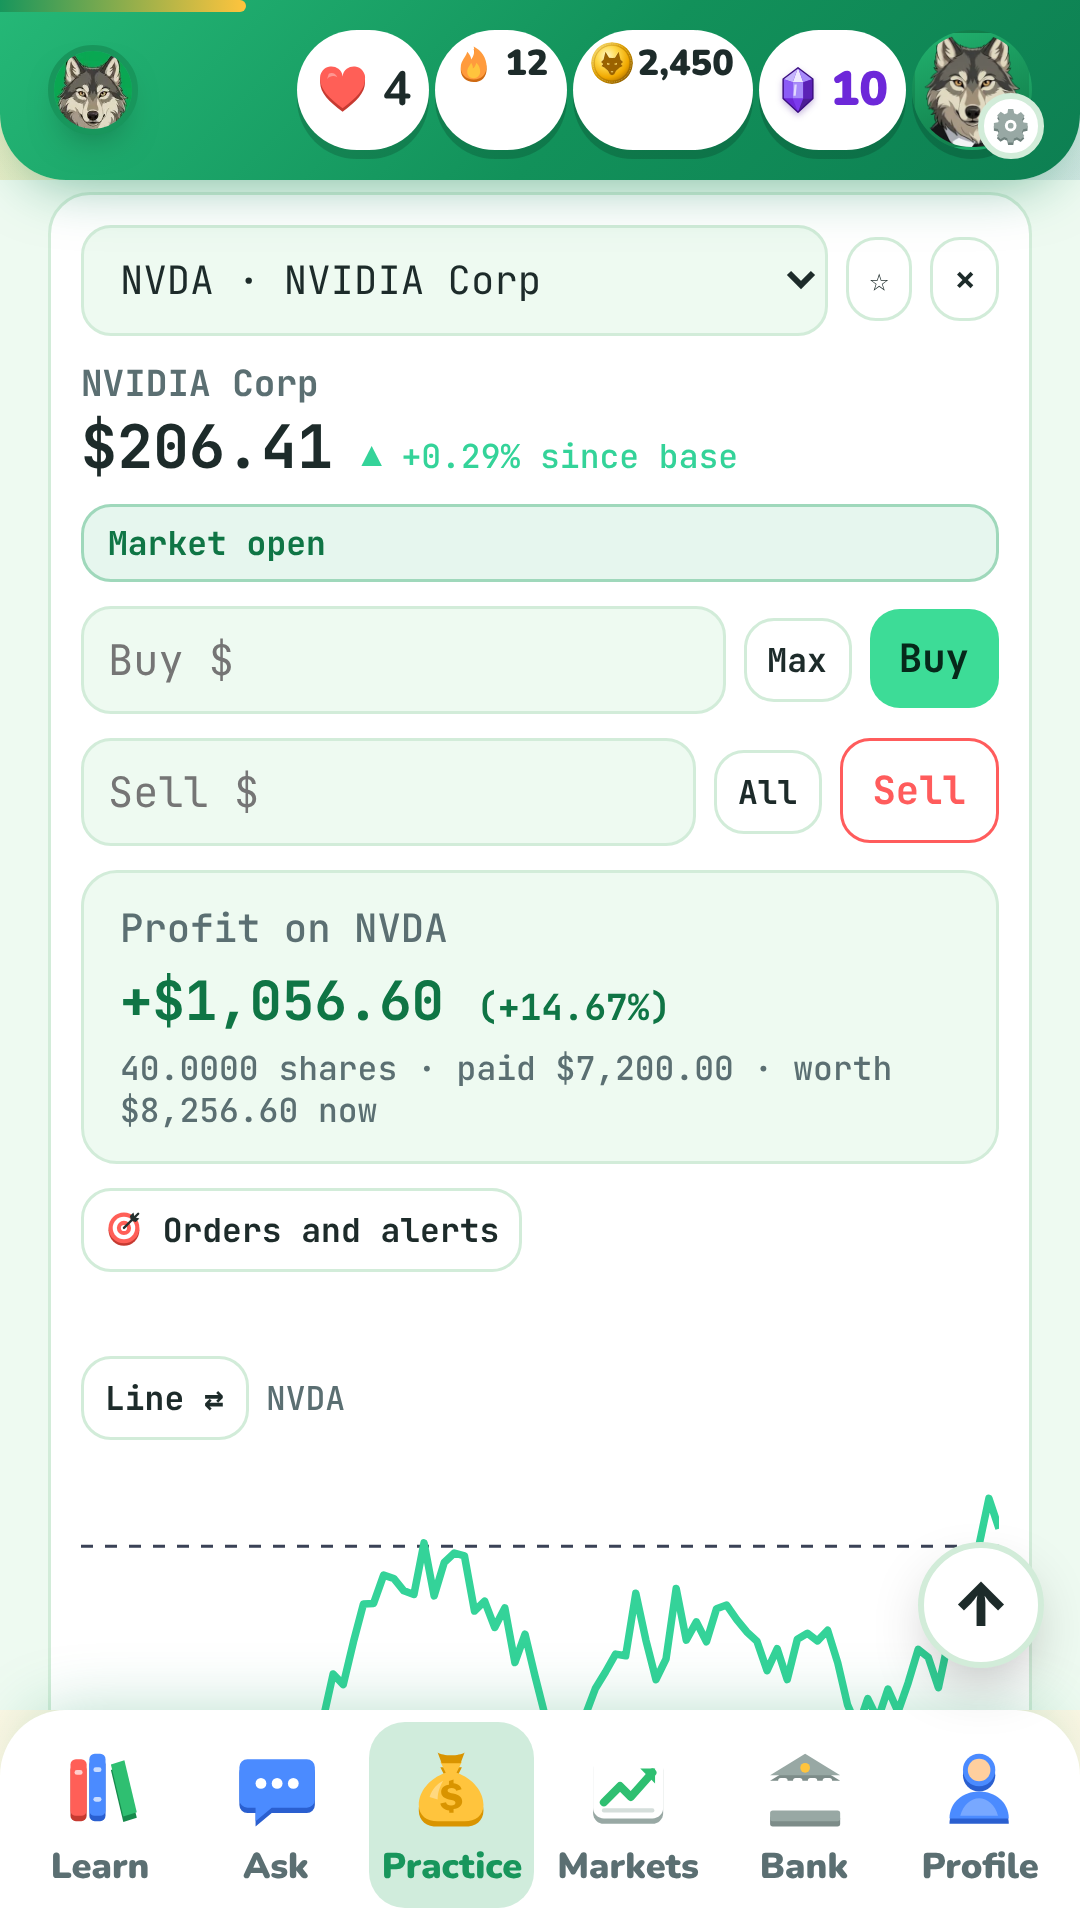
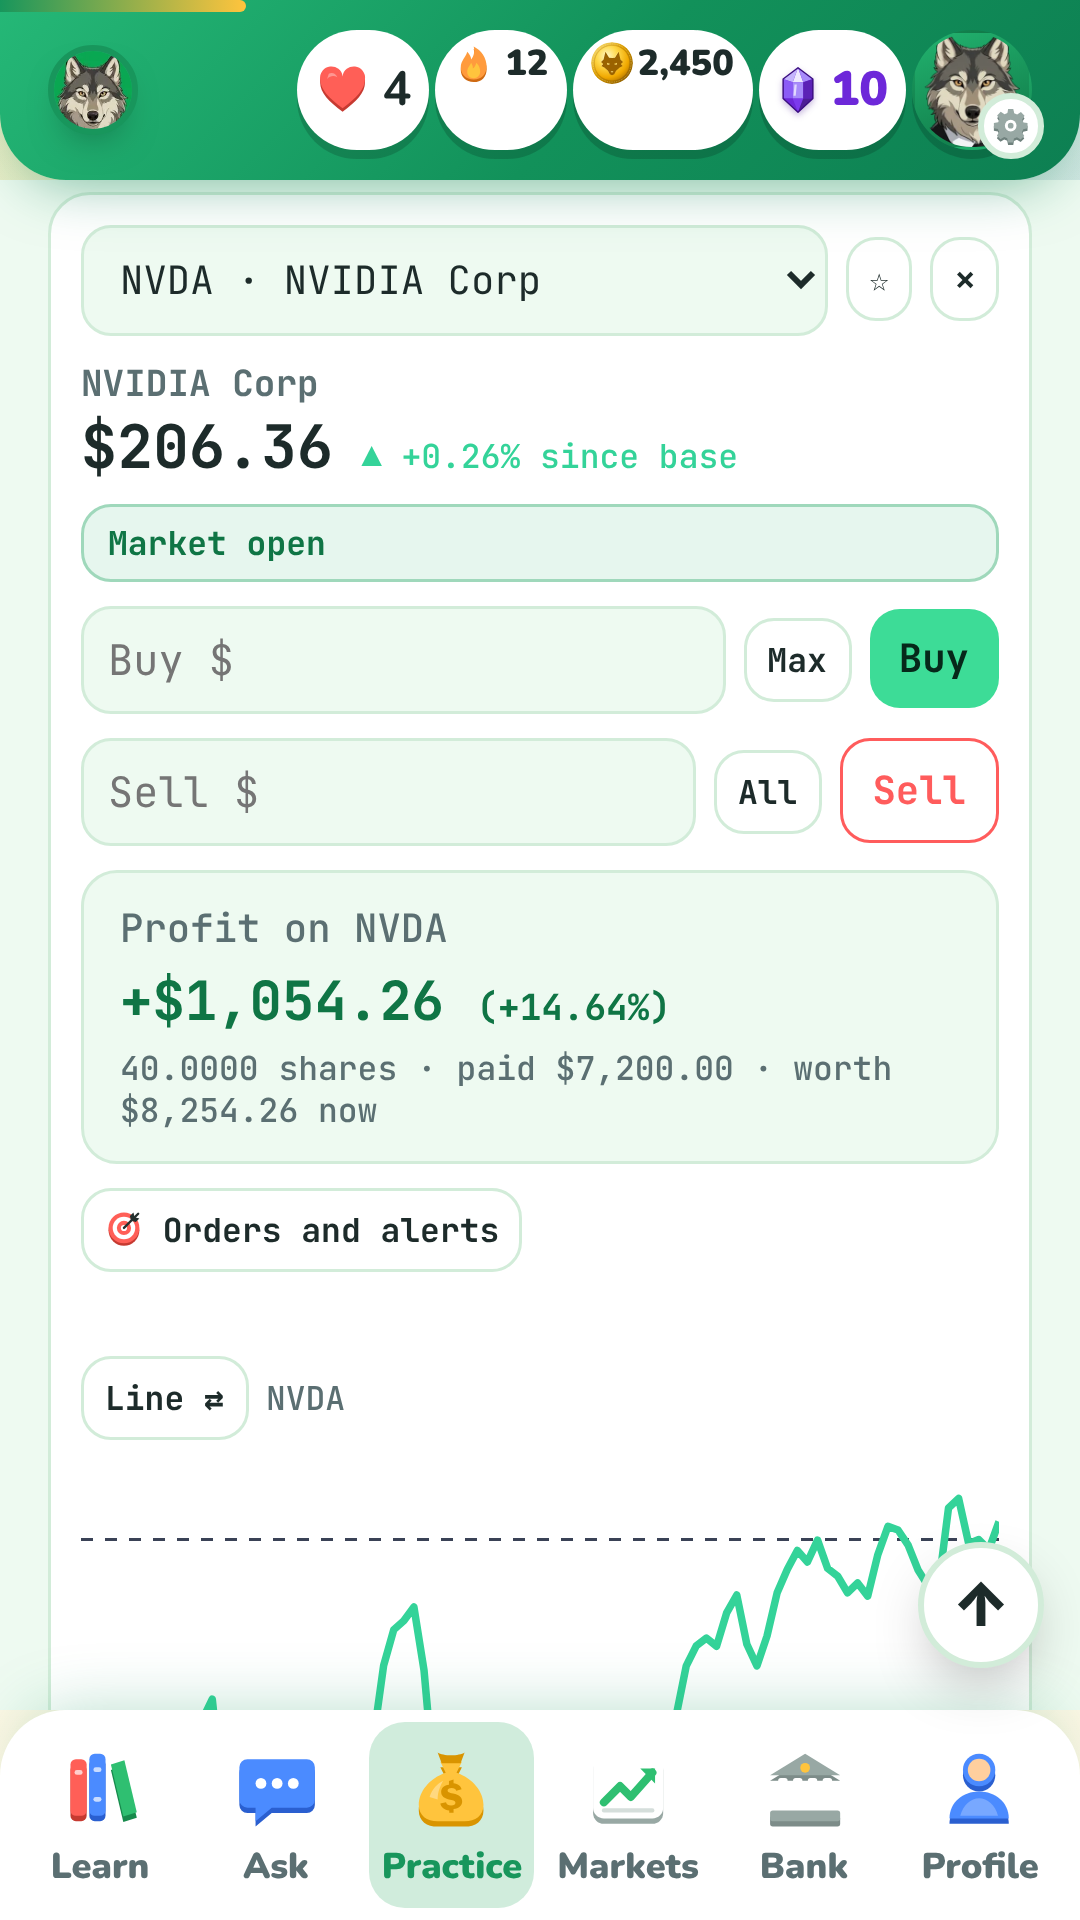
Wally Street 5.11.1: live charts no longer flatten into a straight line

diff --git a/index.html b/index.html
@@ -1695,7 +1695,7 @@ let SWX=null;function pnSwipe(){return;/* charts sit side by side again, so swip
 /* per-chart extras: star, alert, order row, big-move note, chart description */
 function paintPx(n){const P=PN[n],i=P.i,k=MK[i],p=pr[i],b=k[3],ch=p/b-1,E=document.querySelector('.cd[data-n="'+n+'"]');if(!E)return;
  const st=E.querySelector('[data-star]');if(st){const on=(X.w||[]).includes(k[0]);st.textContent=on?'★':'☆';st.setAttribute('aria-pressed',on);st.setAttribute('aria-label',(on?'Remove ':'Add ')+k[0]+(on?' from':' to')+' watchlist')}
- const mv=gi('mv',n);if(mv)mv.textContent=Math.abs(ch)>=.03?(ch>0?'📈 Big move: ':'📉 Big move: ')+pc(ch)+' since base. Prices here are simulated. In real markets, moves this big usually follow news such as results, interest-rate changes or sector news.':'';
+ const mv=gi('mv',n);if(mv)mv.textContent=Math.abs(ch)>=.03?(ch>0?'📈 Big move: ':'📉 Big move: ')+pc(ch)+(liveOn(k[0])?' today. This is the real price change since yesterday\'s close. Moves this big usually follow news such as results, interest-rate changes or sector news.':' since base. Prices here are simulated. In real markets, moves this big usually follow news such as results, interest-rate changes or sector news.'):'';
  const svg=E.querySelector('svg');if(svg)svg.setAttribute('aria-label',`${k[0]} price chart: ${$m(p)} now, ${pc(ch)} since the base price of ${$m(b)}, ${ch>=0?'up':'down'} overall`);
  ['bi','si'].forEach(id=>{const x=gi(id,n);if(x)x.placeholder=(id=='bi'?'Buy ':'Sell ')+curSym()});}
 function pracX(t,g){let x;
@@ -1802,6 +1802,7 @@ function openReport(q){if(!q)return;const txt=String(q[0]).slice(0,300);showDoc(
 /* ---- what's new ---- */
 const WHATSNEW=['A faster start: one-screen Terms and straight into your first lesson','"What is a stock?" now comes first, and every lesson has 10 questions','🇮🇳 India essentials: SIPs, mutual funds, demat accounts and tax, plus rupee prices','A smarter tutor with related questions','Daily goals, streak freezes, badges, certificates and missions','Mistakes review, a placement test and a searchable glossary','🧮 Money tools: SIP time machine, compound interest, rule of 72 and tax on gains','Practice: limit and stop-loss orders, watchlist, alerts, costs, dividends and trade history','🌪 Crash replays, story cards to share, invite codes and classroom codes','Text size, high contrast, sounds and a light Practice screen'];
 const WHATSNEW41=['📜 The Terms now include an end-user license agreement (EULA) in section 12','🪙 XP is now Wally coins: shiny golden coins with Wally on them, with effects when you earn and spend them','🔍 Search everything: lessons, glossary terms, stocks, news, tools and help (press / on a keyboard)','❓ A FAQ with quick answers, and a help button on Learn and Markets','✅ You are asked to confirm before deleting, resetting, restoring a backup or spending lots of Wally coins','👁 Show or hide your password while you type it','⬆ A back-to-top button, a reading progress bar and smoother loading animations','💰 Practice shows your profit or loss on each stock right under Sell','🇺🇸 The US market is open around the clock in Practice, so you can always trade US stocks','⌨ A "Skip to main content" link for keyboard users, and clean printing of pages and certificates','🧠 Mistakes reviews no longer give Wally coins'];
+const WHATSNEW5111=['📈 Live charts in Practice no longer flatten into a straight line: they show the day from the previous close to the latest real price and keep moving between updates','📰 A big move on a live price now says it is the real change since yesterday\'s close'];
 const WHATSNEW511=['💎 Wally gems: purple crystals, rarer than coins. Get 5 for every 4 perfect lessons in a row, 10 for each new badge or medal, 25 for passing a unit and 30 for passing a certification test','📈 In Practice, 10 gems turn into $20,000 of practice cash','👔 Buy characters, suits, ties and accessories with coins or gems','🎓 A certification test for every level: 20 questions from the whole level, pass with 16. Passing marks your certificate Certified','📜 The Terms (version 1.8) and Privacy Policy (version 2.1) now cover gems and certification tests'];
 const WHATSNEW510=['🌍 16 new economics videos: every unit now has an economics video under its stock video, covering that unit\'s economics lessons, from money and markets to inflation, central banks, trade and India\'s economy','🇮🇳 India essentials has its own video too','🎬 Like the stock videos, they have narration on screen, an optional voice and no questions'];
 const WHATSNEW59=['📊 With online answers on, Ask Wally can analyse recent results: ask how a company did last quarter and it looks up what was reported, how that compared with expectations and how the price reacted','🔗 Answers that used the web list their sources underneath','🚫 Wally still never says what to buy or sell and never predicts prices','📄 Privacy Policy 2.0 says that online answers may search the web'];
@@ -1832,7 +1833,7 @@ const WHATSNEW45=['🏦 Side quests: every unit has a 3D bank beside the lesson 
 const WHATSNEW44=['🚀 The placement test lets you choose where it takes you: pick any level, answer 15 questions on everything before it, and skip straight there','🛡 The test has 3 lives of its own, so your hearts are safe'];
 const WHATSNEW43=['📦 Backups from a signed-in account can be restored on another device or web address: restore the file, then log in with the same password','☁ Sync across devices: log in with your username and password on any device and carry on where you left off (on the website and the download file, once the sync server is switched on)','🔒 Your progress is encrypted with your password before it is uploaded, and the server never sees your password','✔ Right and wrong answers keep their sounds and effects, without the emoji faces'];
 const WHATSNEW42=['📚 64 lessons: 26 new ones, including saving vs investing, the Nifty 50 and Sensex, spotting scams, cash flow, IPOs, gold, PPF, EPF and NPS, and circuit limits','🔁 A revision at the end of every unit, with questions from that unit and from all the units before it','❤ Lost a heart? Earn it back straight away with a 5-question practice. Tap the hearts at the top to see your options','🪙 Buy hearts with Wally coins: 100 coins for 1 heart'];
-function showWhatsNew(){showDoc("What's new in Wally Street "+APP_VER,`<p class="tcm">Last updated: ${LAST_UPDATED}</p><ul class="opl">${WHATSNEW511.map(x=>`<li>${esc(x)}</li>`).join('')}</ul><h3>Also new in 5.10</h3><ul class="opl">${WHATSNEW510.map(x=>`<li>${esc(x)}</li>`).join('')}</ul><h3>Also new in 5.9</h3><ul class="opl">${WHATSNEW59.map(x=>`<li>${esc(x)}</li>`).join('')}</ul><h3>Also new in 5.8</h3><ul class="opl">${WHATSNEW58.map(x=>`<li>${esc(x)}</li>`).join('')}</ul><h3>Also new in 5.7</h3><ul class="opl">${WHATSNEW57.map(x=>`<li>${esc(x)}</li>`).join('')}</ul><h3>Also new in 5.6</h3><ul class="opl">${WHATSNEW56.map(x=>`<li>${esc(x)}</li>`).join('')}</ul><h3>Also new in 5.5.1</h3><ul class="opl">${WHATSNEW551.map(x=>`<li>${esc(x)}</li>`).join('')}</ul><h3>Also new in 5.5</h3><ul class="opl">${WHATSNEW55.map(x=>`<li>${esc(x)}</li>`).join('')}</ul><h3>Also new in 5.4.1</h3><ul class="opl">${WHATSNEW541.map(x=>`<li>${esc(x)}</li>`).join('')}</ul><h3>Also new in 5.4</h3><ul class="opl">${WHATSNEW54.map(x=>`<li>${esc(x)}</li>`).join('')}</ul><h3>Also new in 5.3</h3><ul class="opl">${WHATSNEW53.map(x=>`<li>${esc(x)}</li>`).join('')}</ul><h3>Also new in 5.2</h3><ul class="opl">${WHATSNEW52.map(x=>`<li>${esc(x)}</li>`).join('')}</ul><h3>Also new in 5.1</h3><ul class="opl">${WHATSNEW51.map(x=>`<li>${esc(x)}</li>`).join('')}</ul><h3>Also new in 5.0</h3><ul class="opl">${WHATSNEW50.map(x=>`<li>${esc(x)}</li>`).join('')}</ul><h3>Also new in 4.15</h3><ul class="opl">${WHATSNEW415.map(x=>`<li>${esc(x)}</li>`).join('')}</ul><h3>Also new in 4.14</h3><ul class="opl">${WHATSNEW414.map(x=>`<li>${esc(x)}</li>`).join('')}</ul><h3>Also new in 4.13</h3><ul class="opl">${WHATSNEW413.map(x=>`<li>${esc(x)}</li>`).join('')}</ul><h3>Also new in 4.12.5</h3><ul class="opl">${WHATSNEW4125.map(x=>`<li>${esc(x)}</li>`).join('')}</ul><h3>Also new in 4.12.4</h3><ul class="opl">${WHATSNEW4124.map(x=>`<li>${esc(x)}</li>`).join('')}</ul><h3>Also new in 4.12.1</h3><ul class="opl">${WHATSNEW4121.map(x=>`<li>${esc(x)}</li>`).join('')}</ul><h3>Also new in 4.12</h3><ul class="opl">${WHATSNEW412.map(x=>`<li>${esc(x)}</li>`).join('')}</ul><h3>Also new in 4.9</h3><ul class="opl">${WHATSNEW49.map(x=>`<li>${esc(x)}</li>`).join('')}</ul><h3>Also new in 4.8</h3><ul class="opl">${WHATSNEW48.map(x=>`<li>${esc(x)}</li>`).join('')}</ul><h3>Also new in 4.7</h3><ul class="opl">${WHATSNEW47.map(x=>`<li>${esc(x)}</li>`).join('')}</ul><h3>Also new in 4.6</h3><ul class="opl">${WHATSNEW46.map(x=>`<li>${esc(x)}</li>`).join('')}</ul><h3>Also new in 4.5</h3><ul class="opl">${WHATSNEW45.map(x=>`<li>${esc(x)}</li>`).join('')}</ul><h3>Also new in 4.4</h3><ul class="opl">${WHATSNEW44.map(x=>`<li>${esc(x)}</li>`).join('')}</ul><h3>Also new in 4.3</h3><ul class="opl">${WHATSNEW43.map(x=>`<li>${esc(x)}</li>`).join('')}</ul><h3>Also new in 4.2</h3><ul class="opl">${WHATSNEW42.map(x=>`<li>${esc(x)}</li>`).join('')}</ul><h3>Also new in 4.1</h3><ul class="opl">${WHATSNEW41.map(x=>`<li>${esc(x)}</li>`).join('')}</ul><h3>Also new in 4.0</h3><ul class="opl">${WHATSNEW.map(x=>`<li>${esc(x)}</li>`).join('')}</ul>`);S.wn=APP_VER;save()}
+function showWhatsNew(){showDoc("What's new in Wally Street "+APP_VER,`<p class="tcm">Last updated: ${LAST_UPDATED}</p><ul class="opl">${WHATSNEW5111.map(x=>`<li>${esc(x)}</li>`).join('')}</ul><h3>Also new in 5.11</h3><ul class="opl">${WHATSNEW511.map(x=>`<li>${esc(x)}</li>`).join('')}</ul><h3>Also new in 5.10</h3><ul class="opl">${WHATSNEW510.map(x=>`<li>${esc(x)}</li>`).join('')}</ul><h3>Also new in 5.9</h3><ul class="opl">${WHATSNEW59.map(x=>`<li>${esc(x)}</li>`).join('')}</ul><h3>Also new in 5.8</h3><ul class="opl">${WHATSNEW58.map(x=>`<li>${esc(x)}</li>`).join('')}</ul><h3>Also new in 5.7</h3><ul class="opl">${WHATSNEW57.map(x=>`<li>${esc(x)}</li>`).join('')}</ul><h3>Also new in 5.6</h3><ul class="opl">${WHATSNEW56.map(x=>`<li>${esc(x)}</li>`).join('')}</ul><h3>Also new in 5.5.1</h3><ul class="opl">${WHATSNEW551.map(x=>`<li>${esc(x)}</li>`).join('')}</ul><h3>Also new in 5.5</h3><ul class="opl">${WHATSNEW55.map(x=>`<li>${esc(x)}</li>`).join('')}</ul><h3>Also new in 5.4.1</h3><ul class="opl">${WHATSNEW541.map(x=>`<li>${esc(x)}</li>`).join('')}</ul><h3>Also new in 5.4</h3><ul class="opl">${WHATSNEW54.map(x=>`<li>${esc(x)}</li>`).join('')}</ul><h3>Also new in 5.3</h3><ul class="opl">${WHATSNEW53.map(x=>`<li>${esc(x)}</li>`).join('')}</ul><h3>Also new in 5.2</h3><ul class="opl">${WHATSNEW52.map(x=>`<li>${esc(x)}</li>`).join('')}</ul><h3>Also new in 5.1</h3><ul class="opl">${WHATSNEW51.map(x=>`<li>${esc(x)}</li>`).join('')}</ul><h3>Also new in 5.0</h3><ul class="opl">${WHATSNEW50.map(x=>`<li>${esc(x)}</li>`).join('')}</ul><h3>Also new in 4.15</h3><ul class="opl">${WHATSNEW415.map(x=>`<li>${esc(x)}</li>`).join('')}</ul><h3>Also new in 4.14</h3><ul class="opl">${WHATSNEW414.map(x=>`<li>${esc(x)}</li>`).join('')}</ul><h3>Also new in 4.13</h3><ul class="opl">${WHATSNEW413.map(x=>`<li>${esc(x)}</li>`).join('')}</ul><h3>Also new in 4.12.5</h3><ul class="opl">${WHATSNEW4125.map(x=>`<li>${esc(x)}</li>`).join('')}</ul><h3>Also new in 4.12.4</h3><ul class="opl">${WHATSNEW4124.map(x=>`<li>${esc(x)}</li>`).join('')}</ul><h3>Also new in 4.12.1</h3><ul class="opl">${WHATSNEW4121.map(x=>`<li>${esc(x)}</li>`).join('')}</ul><h3>Also new in 4.12</h3><ul class="opl">${WHATSNEW412.map(x=>`<li>${esc(x)}</li>`).join('')}</ul><h3>Also new in 4.9</h3><ul class="opl">${WHATSNEW49.map(x=>`<li>${esc(x)}</li>`).join('')}</ul><h3>Also new in 4.8</h3><ul class="opl">${WHATSNEW48.map(x=>`<li>${esc(x)}</li>`).join('')}</ul><h3>Also new in 4.7</h3><ul class="opl">${WHATSNEW47.map(x=>`<li>${esc(x)}</li>`).join('')}</ul><h3>Also new in 4.6</h3><ul class="opl">${WHATSNEW46.map(x=>`<li>${esc(x)}</li>`).join('')}</ul><h3>Also new in 4.5</h3><ul class="opl">${WHATSNEW45.map(x=>`<li>${esc(x)}</li>`).join('')}</ul><h3>Also new in 4.4</h3><ul class="opl">${WHATSNEW44.map(x=>`<li>${esc(x)}</li>`).join('')}</ul><h3>Also new in 4.3</h3><ul class="opl">${WHATSNEW43.map(x=>`<li>${esc(x)}</li>`).join('')}</ul><h3>Also new in 4.2</h3><ul class="opl">${WHATSNEW42.map(x=>`<li>${esc(x)}</li>`).join('')}</ul><h3>Also new in 4.1</h3><ul class="opl">${WHATSNEW41.map(x=>`<li>${esc(x)}</li>`).join('')}</ul><h3>Also new in 4.0</h3><ul class="opl">${WHATSNEW.map(x=>`<li>${esc(x)}</li>`).join('')}</ul>`);S.wn=APP_VER;save()}
 /* ---- one-screen Terms summary ---- */
 function termsSummary(){const old=LS('stockgpt:terms');return `${old&&old.v&&old.v!=TERMS_V?'<p class="tcm"><b>Updated 17 November 2026:</b> the Terms now cover Wally gems, which have no cash value like Wally coins, and say that certification tests are not a professional qualification. Please agree again to keep using Wally Street.</p>':''}<p><b>The short version:</b></p><ul class="opl"><li>📚 Wally Street is for <b>learning only</b>. It is not financial advice.</li><li>🏦 We are <b>not responsible</b> for anything you do with real money in a real market.</li><li>🎲 Practice uses <b>pretend money</b>. It can't be withdrawn and makes no real profit.</li><li>🔒 Your progress stays on your device or in your private account. See the Privacy Policy.</li><li>🎂 You must be <b>13 or older</b>, and under-18s need a parent's or guardian's permission.</li><li>🔑 You get a <b>personal license</b> to use the app (the EULA in section 12). Don't sell, share or change copies of it.</li></ul><details class="tfull"><summary>Read the full Terms and Conditions</summary>${TERMS_HTML}</details>`}
 /* ---- first run: quick setup, guest-first ---- */
@@ -3953,6 +3954,33 @@ function gemClean(o,r){const int=(v,a,b)=>{v=Number(v);return Number.isFinite(v)
  r.gl=Array.isArray(o.gl)?[...new Set(o.gl.map(Number).filter(v=>Number.isInteger(v)&&v>=0&&v<10000))].slice(0,2000):[];
  if(o.ct&&typeof o.ct=='object'&&!Array.isArray(o.ct)){r.ct={};for(let i=0;i<10;i++)if(typeof o.ct[i]=='string'&&dre.test(o.ct[i]))r.ct[i]=o.ct[i]}
  if(o.cb&&typeof o.cb=='object'&&!Array.isArray(o.cb)){r.cb={};for(let i=0;i<10;i++){const v=int(o.cb[i],0,20);if(v)r.cb[i]=v}}}
+/* ---------- 5.11.1: live charts that move like a trading day ----------
+   With live prices on, charts flattened into a straight line after a couple of minutes: the small moves between real
+   quotes were tiny next to the gap from the previous close, which the chart always shows. Now a live chart starts as a
+   path from the previous close to the latest real price, the moves between quotes are a little bigger (still never more
+   than 0.3% from the real price for a share, 0.12% for a fund) and move the newest point, a new point is added about
+   every 7 seconds and at every real quote, and when the chart is full it is squeezed to half instead of dropping the
+   start, so the shape of the day stays on screen. */
+var LVJ2={S:.0009,F:.00035,B:.00012},LVDAY={S:.014,F:.007,B:.0025},LVN={};
+function hsPushL(i,p){let h=hs[i];h.push(p);if(h.length>120)hs[i]=h.filter((_,j)=>j%2==0||j==h.length-1);LVN[i]=0}
+/* between real quotes the newest point follows the price, and a new point is added about every 7 seconds */
+function hsTipL(i,p){const h=hs[i];if(!h.length||(LVN[i]|0)>=5)return hsPushL(i,p);h[h.length-1]=p;LVN[i]=(LVN[i]|0)+1}
+function liveBridge(c,p,t){const n=89,sd=(LVDAY[t]||.014)/Math.sqrt(n),W=[0];for(let j=1;j<=n;j++)W.push(W[j-1]+sd*rn());
+ const out=[];for(let j=0;j<=n;j++){const f=j/n;out.push(c*Math.pow(p/c,f)*Math.exp(W[j]-f*W[n]))}out[0]=c;out[n]=p;return out}
+function liveJig(i,k){const q=LIVEQ[k[0]];if(!q||!(q.p>0))return;const a=q.p,c=LVCAP[k[2]]||.003,p0=pr[i]>0?pr[i]:a;
+ let p=p0*(1+(LVJ2[k[2]]||.0009)*rn()-.12*(p0/a-1));p=Math.min(a*(1+c),Math.max(a*(1-c),p));
+ lt[i]=p/p0-1;pr[i]=p;hsTipL(i,p)}
+function liveApply(q){let ch=0;for(const tk in q){const i=IX[tk],x=q[tk];if(i==null||!Array.isArray(x))continue;const src=x[4]||'US',m=MK[i];
+  if(!(src=='US'?liveUS(m):m[4]==src&&!/\.HK$/.test(tk)))continue;const fx=LIVEFX[src];if(!fx)continue;
+  const lp=+x[0],lc=+x[1];if(!(lp>0)||!isFinite(lp))continue;const p=lp/fx,c=lc>0&&isFinite(lc)?lc/fx:p,t=+x[2]||0;
+  const old=LIVEQ[tk],first=!old||!liveOn(tk),same=!first&&old.lp===lp&&old.t===t&&liveMkOpen(src);
+  LIVEQ[tk]={p,pc:c,t,at:Date.now(),m:src,lp};MK[i][3]=c;
+  if(LIVECUR[src]){const nm=MK[i][1].replace(/ · [₹¥][\d,.]+$/,' · '+LIVECUR[src]+lp.toLocaleString('en-US',{minimumFractionDigits:2,maximumFractionDigits:2}));
+   if(nm!==MK[i][1]){MK[i][1]=nm;const sm=document.querySelector('#prac .tl[data-i="'+i+'"] small');if(sm)sm.textContent=nm}}
+  if(first){hs[i]=liveBridge(c,p,m[2]);LVN[i]=0}
+  const prev=pr[i];if(!same&&(prev!==p||first)){pr[i]=p;lt[i]=prev>0?p/prev-1:0;if(!first)hsPushL(i,p);ch=1}
+  const mu=document.querySelector('#prac .tl[data-i="'+i+'"] .mu');if(mu)mu.textContent=$m(MK[i][3])}
+ if(ch){try{ordersCheck()}catch(e){}try{paint()}catch(e){}}}
 drawPN();
 let rsq='';
 function applyTh(){const r=document.documentElement;if(S.th&&S.th!='auto')r.setAttribute('data-theme',S.th);else r.removeAttribute('data-theme')}
@@ -4091,7 +4119,7 @@ function rlBlock(m){const r=LS(RLK)||{},now=Date.now();r.f=(r.f||[]).filter(x=>n
 function rlRecord(m,ok){const r=LS(RLK)||{},now=Date.now();r.f=r.f||[];r.s=r.s||[];if(m=='in'){if(ok)r.f=[];else r.f.push(now)}else{r.s.push(now);if(ok)r.a=(r.a||0)+1}try{localStorage.setItem(RLK,JSON.stringify(r))}catch(e){}}
 let CG=[];const cdoc=p=>{const n=Date.now();CG=CG.filter(x=>n-x<6e4);if(CG.length>=30){const er=()=>Promise.reject(new Error('rate limit'));return{get:er,set:er,delete:er}}CG.push(n);return cloud.doc(p)};
 /* ---------- reliability, security and observability layer ---------- */
-var APP_VER='5.11.0',API_V='v1',SCHEMA_V=2,TAB=Math.random().toString(36).slice(2,8),LOGS=[],MET={},INC=[],BRK={},IDEM={},CHT=[],LC=new Map(),DIDX=null,BC=null,LEADER=false,CHAOS=0,TSKIP=0,HB=Date.now(),COLD=0,SKEW=false,BUS={};
+var APP_VER='5.11.1',API_V='v1',SCHEMA_V=2,TAB=Math.random().toString(36).slice(2,8),LOGS=[],MET={},INC=[],BRK={},IDEM={},CHT=[],LC=new Map(),DIDX=null,BC=null,LEADER=false,CHAOS=0,TSKIP=0,HB=Date.now(),COLD=0,SKEW=false,BUS={};
 function tid(){return Math.random().toString(36).slice(2,10)}
 function esc(t){return String(t).replace(/&/g,'&amp;').replace(/</g,'&lt;').replace(/>/g,'&gt;').replace(/"/g,'&quot;')}
 function log(lv,ev,d){if(!LOGS)return;LOGS.push({t:Date.now(),lv,ev,d:d||''});if(LOGS.length>200)LOGS.shift();if(lv=='error')alertCheck()}

diff --git a/sw.js b/sw.js
@@ -1,5 +1,5 @@
 /* Wally Street offline support: network first, cached copy when offline */
-const C='wally-street-5.11.0';
+const C='wally-street-5.11.1';
 const FILES=['./','index.html','404.html','faq.html','privacy.html','terms.html','favicon.svg','favicon.ico','favicon-32x32.png','icon-192.png','icon-512.png','apple-touch-icon.png','site.webmanifest'];
 self.addEventListener('install',e=>{e.waitUntil(caches.open(C).then(c=>c.addAll(FILES)).then(()=>self.skipWaiting()))});
 self.addEventListener('activate',e=>{e.waitUntil(caches.keys().then(k=>Promise.all(k.filter(x=>x!==C).map(x=>caches.delete(x)))).then(()=>self.clients.claim()))});
